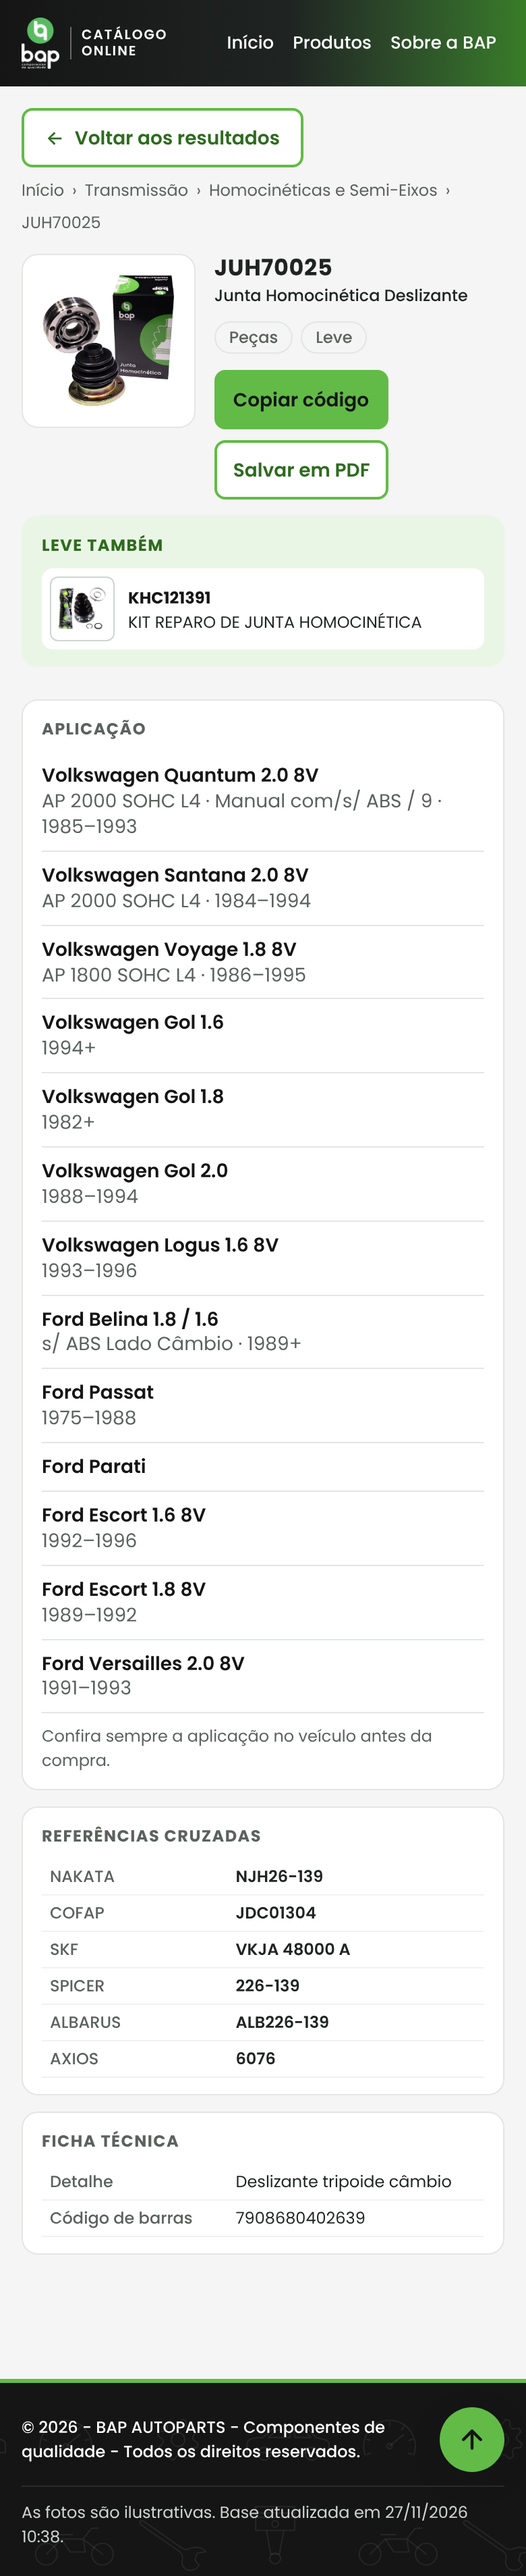
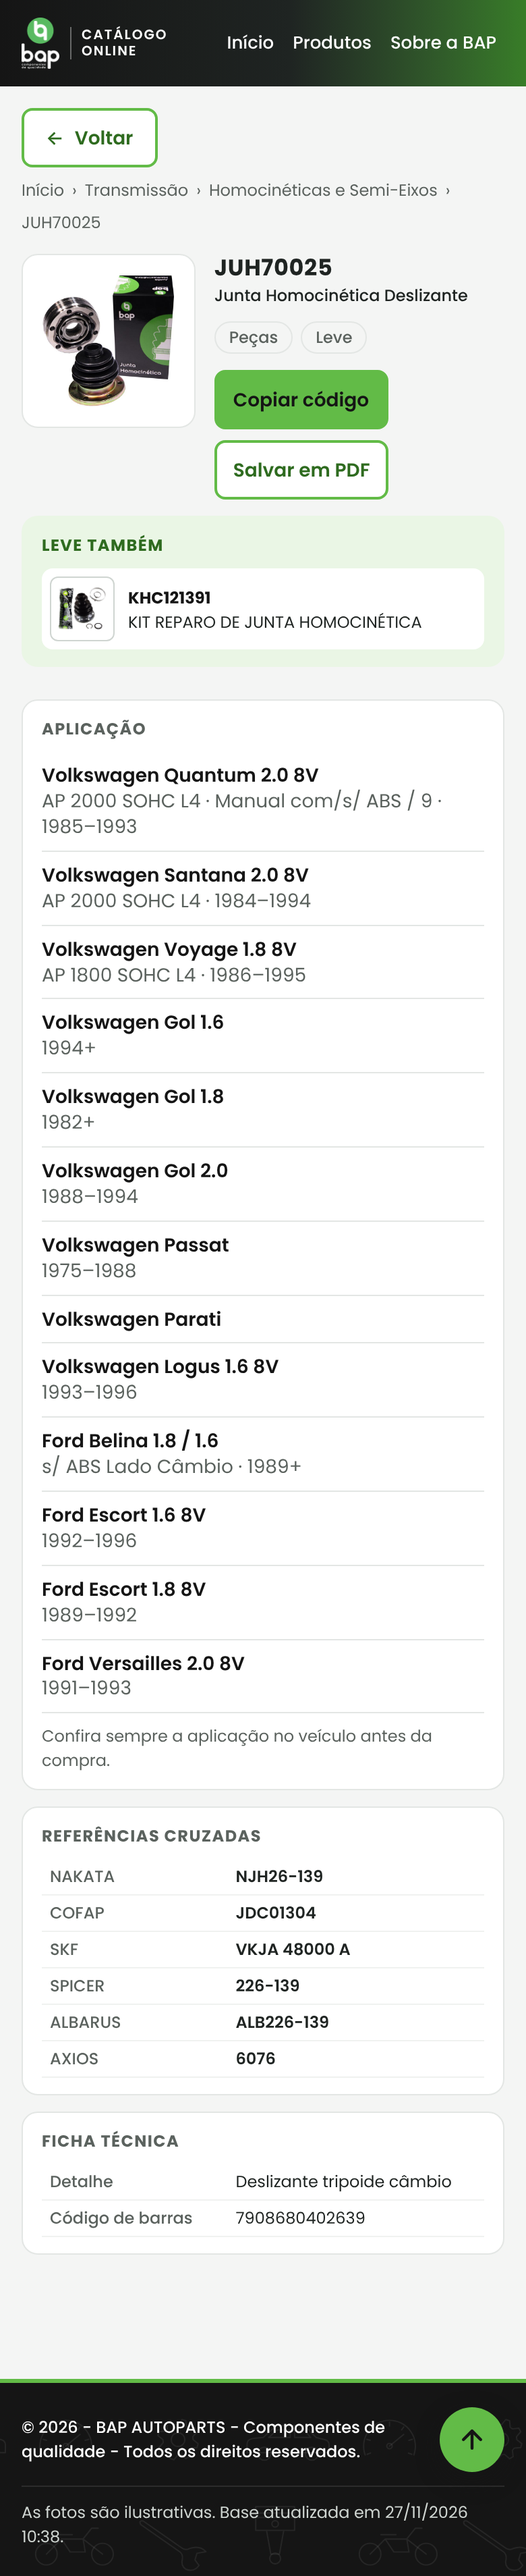
T-0040 v30: JUH70025 com Passat e Parati da Volkswagen (site 3b250fe)
- testes/prints/T-0040-v30/: depois-1366-JUH70025.png e
  depois-390-JUH70025.png refeitos com o site 3b250fe; a tabela mostra
  "Volkswagen · Passat" e "Volkswagen · Parati".
- LEIA.md: os "depois" passam a citar o site 3b250fe.

Agente: testes
Tarefa: T-0040

Claude-Session: https://claude.ai/code/session_01QvB2SQd3z8iEh3oSYx56vn

diff --git a/testes/prints/T-0040-v30/LEIA.md b/testes/prints/T-0040-v30/LEIA.md
@@ -3,7 +3,7 @@
 Simulação: vai para a aprovação do Alexandre. Nada disto está no ar.
 
 - **antes-*** (20): site e JSON do `main` em `601d714` (base v29). JSON gerado em 27/11/2026 09:36 (Manaus).
-- **depois-*** (24): site do `web-site/T-0040-v30` em `78cf93b`. O JSON foi gerado sobre `dados/T-0040/v30/BASE_simulada_v30.xlsx`, do `catalogo-dados/T-0040-v30` em `317f583`, em 27/11/2026 10:38 (Manaus).
+- **depois-*** (24): site do `web-site/T-0040-v30` em `3b250fe` (os prints do JUH70025 saíram desse código; os outros 22 foram tirados no `78cf93b`, e a correção do `3b250fe` não muda essas telas). O JSON foi gerado sobre `dados/T-0040/v30/BASE_simulada_v30.xlsx`, do `catalogo-dados/T-0040-v30` em `317f583`, em 27/11/2026 10:38 (Manaus).
 - Larguras: 1366 e 390 px.
 - Telas com antes e depois: BCE3001 (ocultos), CFR9017, KI20 e ROD8005 (aviso), FLU15001, busca "axor", busca "ka" (lista e cartão), Ford › Ka (lista e dobra).
 - Telas só com depois: JUH70025 e a busca "titan".
@@ -11,7 +11,7 @@ Simulação: vai para a aprovação do Alexandre. Nada disto está no ar.
   - antes: os "antes" não mostram "Aplicação em revisão";
   - depois:
     - "titan" traz as 7 peças de moto primeiro;
-    - JUH70025 tem Gol 1.6, 1.8 e 2.0 em linhas separadas;
+    - JUH70025 tem Gol 1.6, 1.8 e 2.0 em linhas separadas, e "Volkswagen · Passat" e "Volkswagen · Parati";
     - o cartão da busca "ka" diz "FORD - …";
     - CFR9017 mostra "Aplicação em revisão; consulte o vendedor.";
   - preço e estoque: nenhum dos prints abertos (7 antes e 5 depois) mostra.
